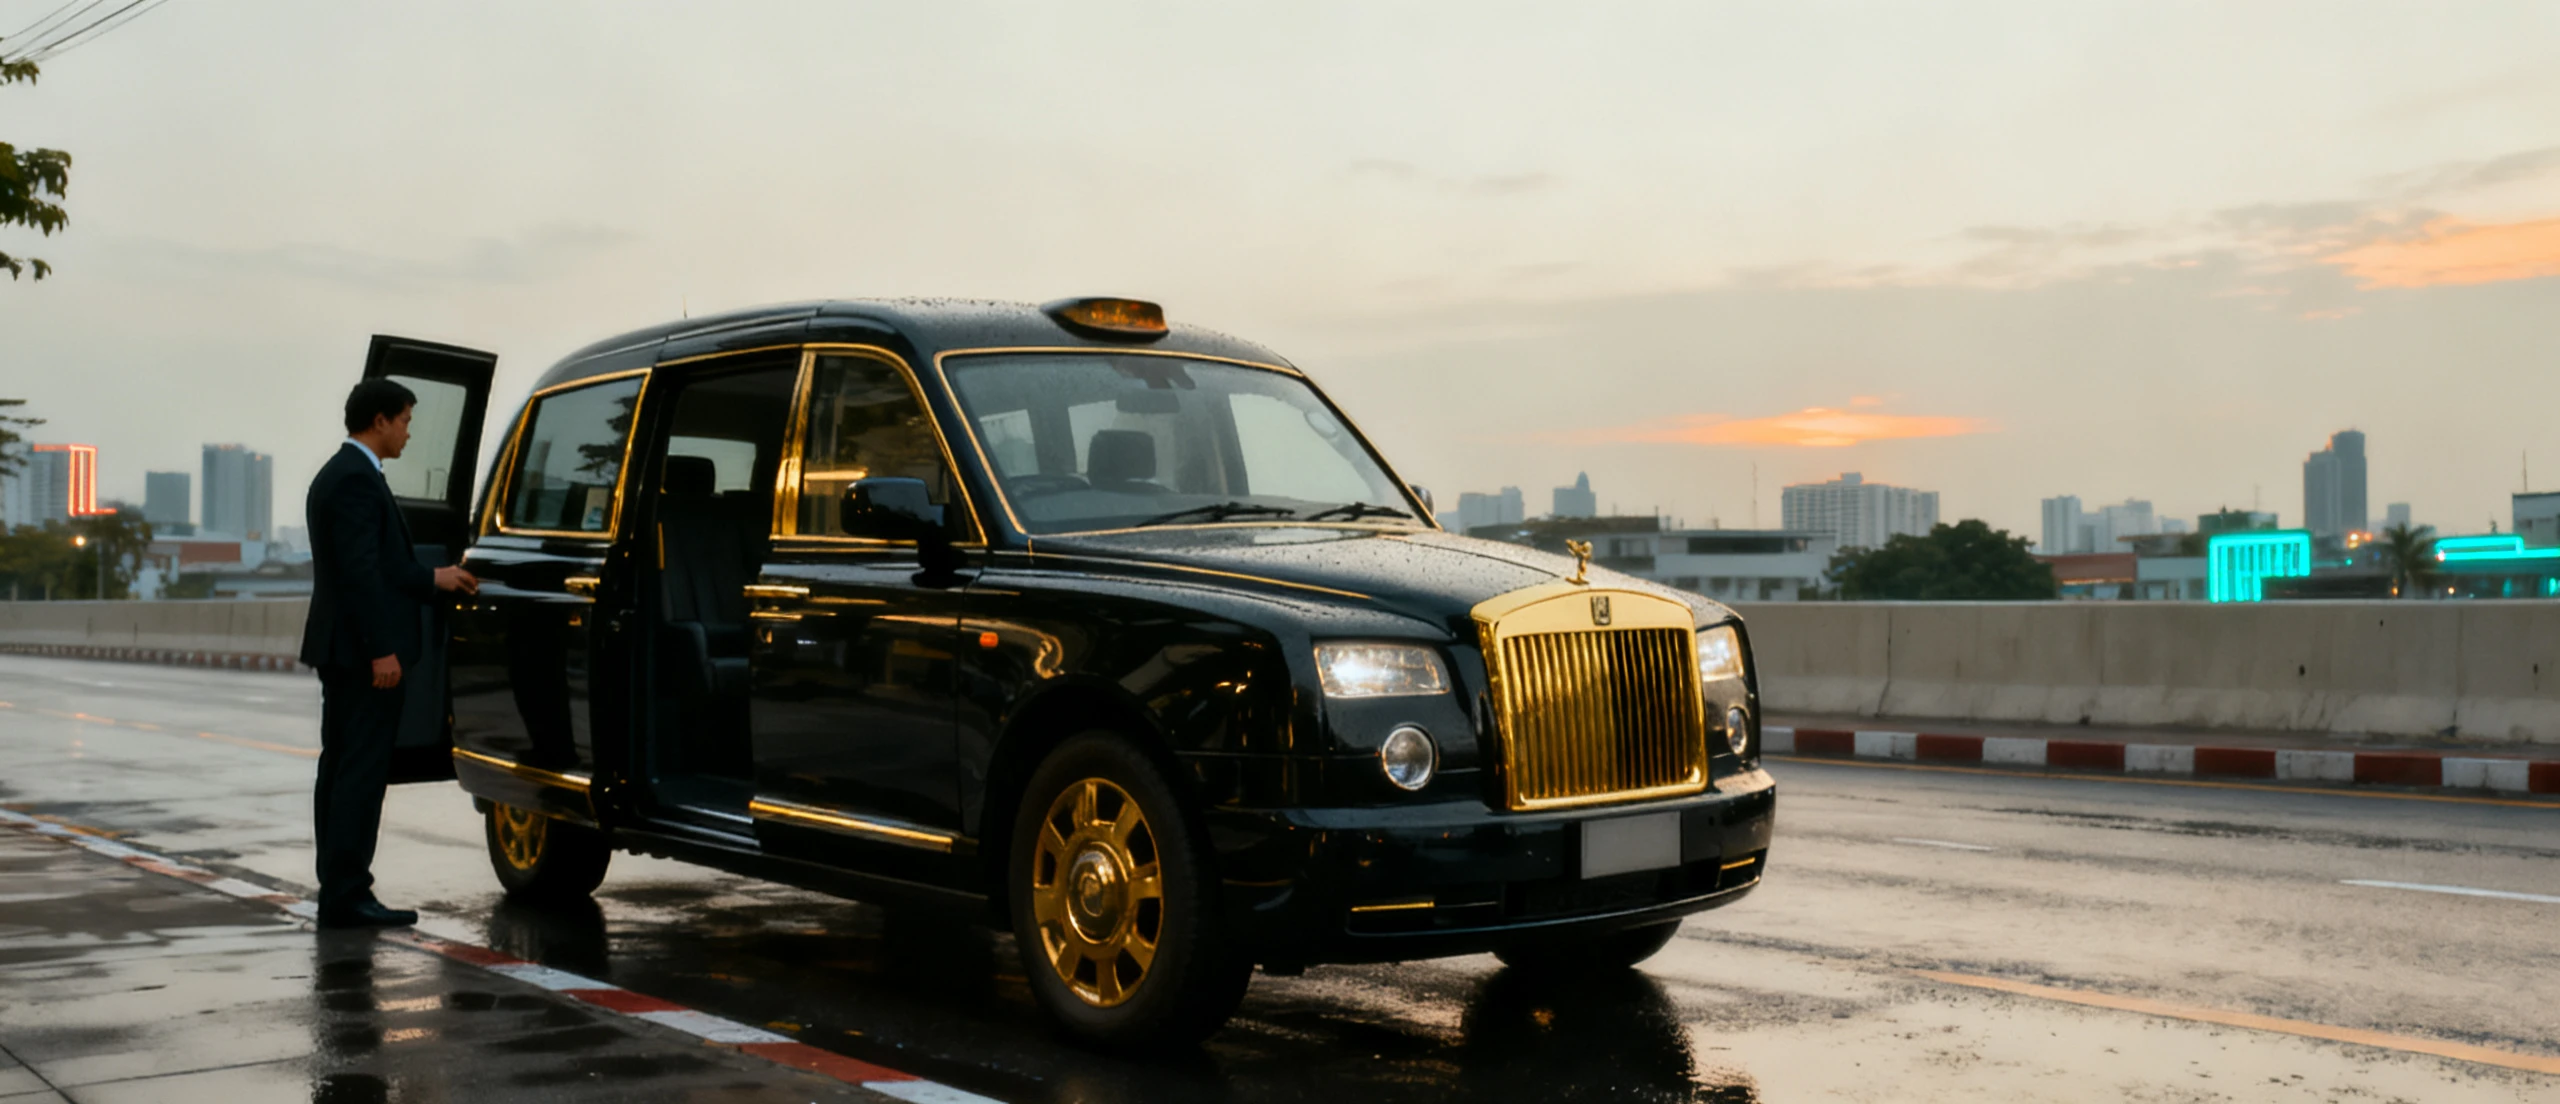
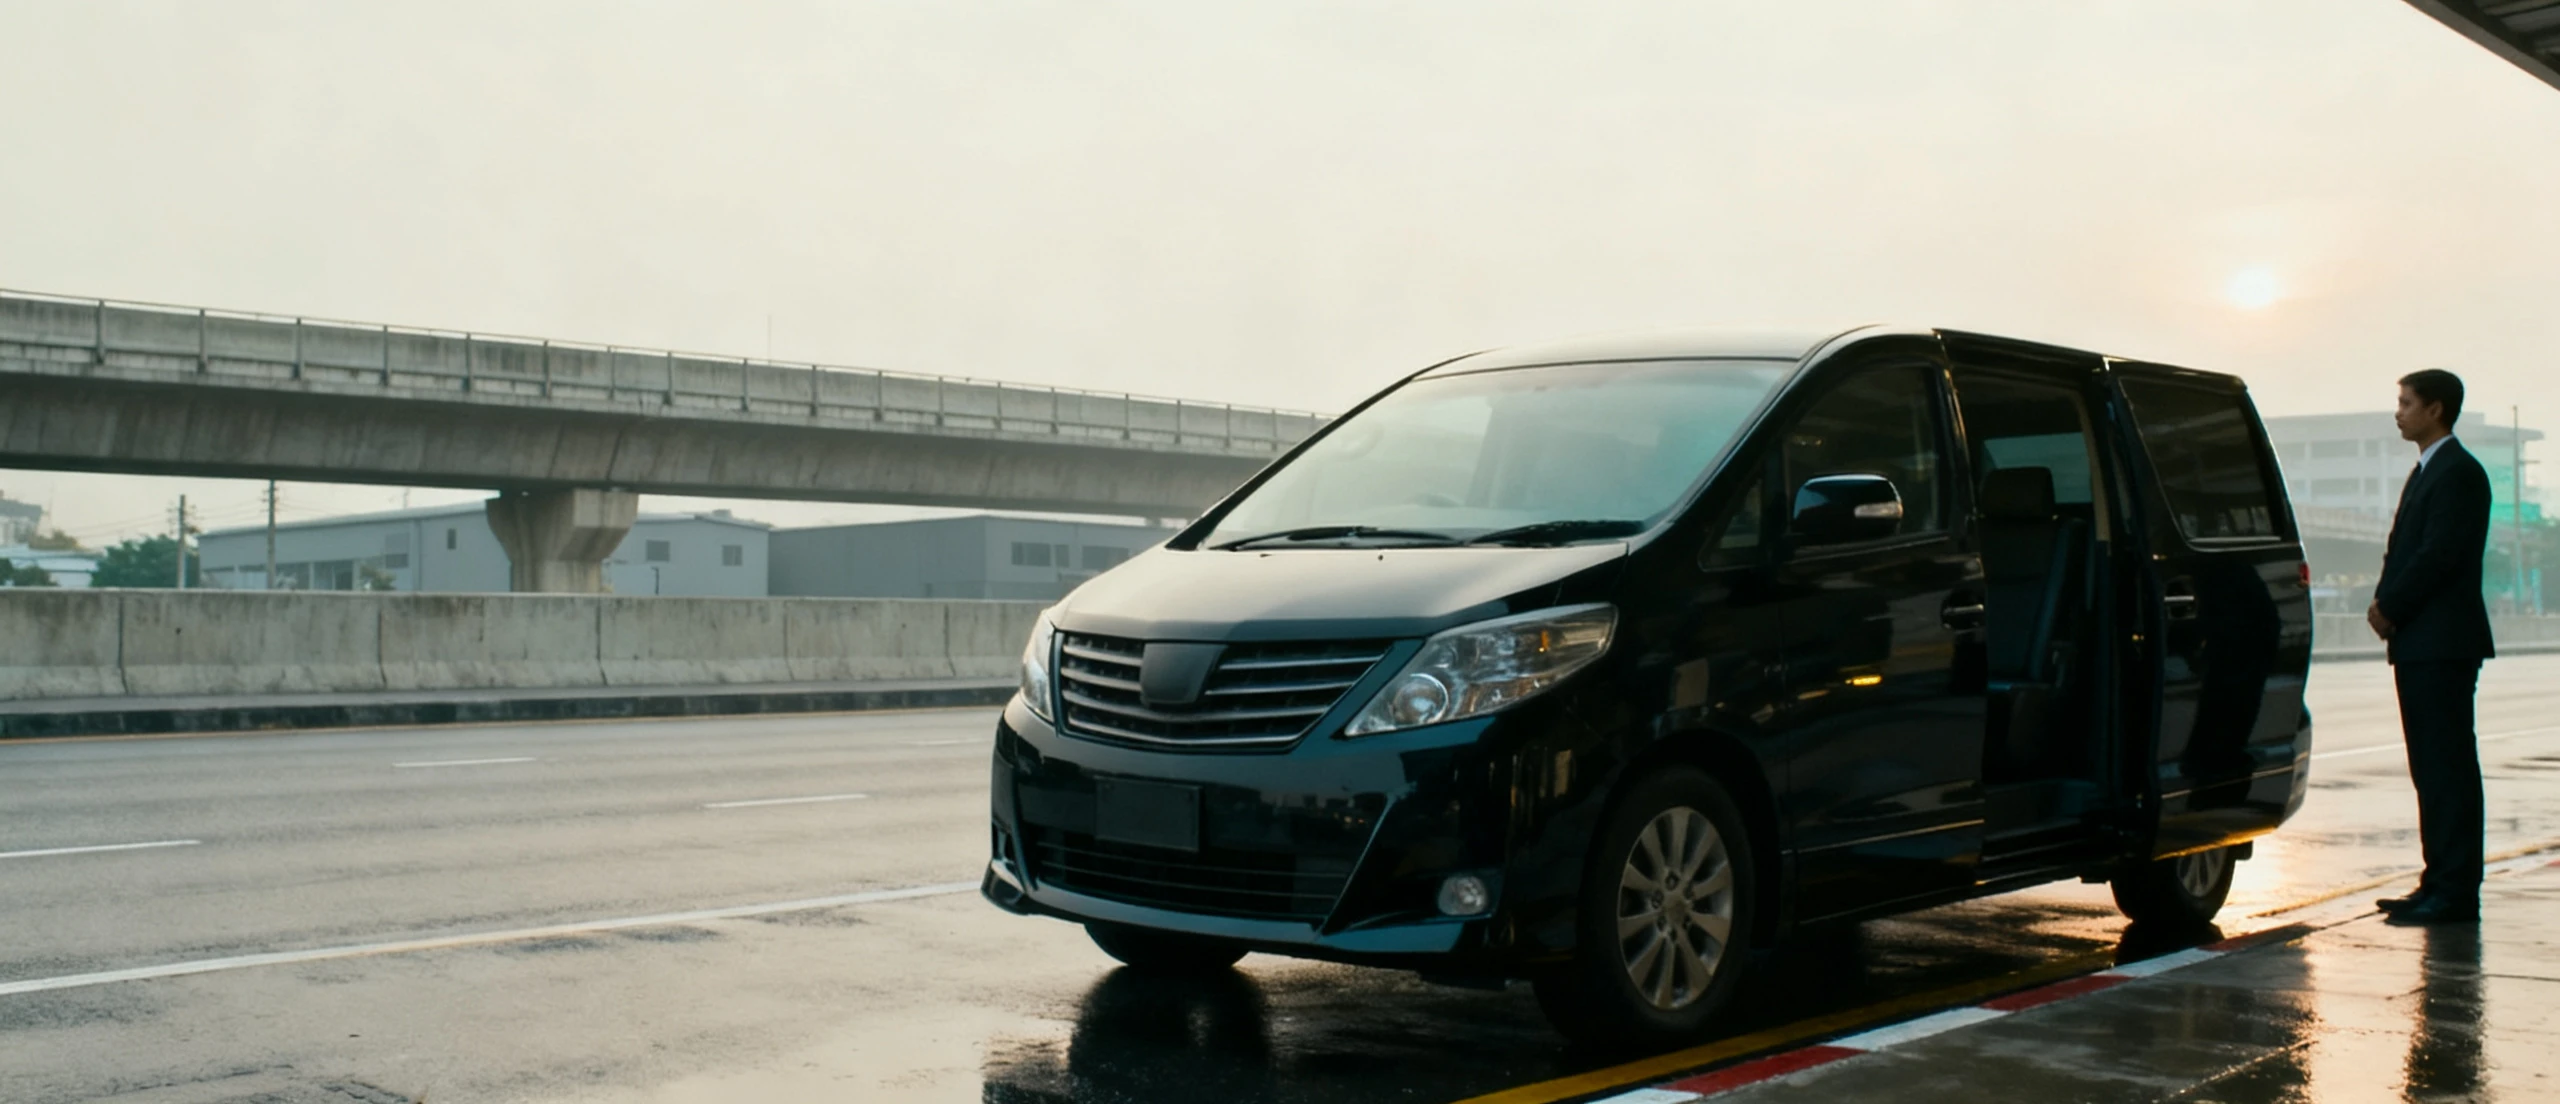
fix(media): remove trade-dress risk from hero prompt, invert depth to near-bright, correct measured cost table
- hero prompt no longer produces a Rolls-Royce style grille/hood ornament/taxi
  roof light; replaced with an explicit plain MPV van description
- PALETTE negative list (shared by every scene) now also forbids gold on the
  vehicle, chrome ornaments, brand logos/badges, taxi signage, neon signs,
  sunset/orange sky, teal, and lens flare
- gen-media.ts now inverts marigold-depth output (sharp negate) before writing
  depth.webp, since the raw model output is far=bright but the WebGL hero
  shader needs near=bright; manifest records depthConvention: 'near-bright'
  on depth entries so this is never inverted a second time
- plan.ts COST_USD updated from list-price guesses to the measured 2026-07-27
  figures (color /bin/zsh.03 confirmed exact on fal's pricing page, depth /bin/zsh.01776
  measured — marigold-depth bills per compute-second with no fixed list price)
- regenerated public/images/parallax/hero/{color,depth}.webp with the fixed
  prompt and inverted depth convention

diff --git a/scripts/gen-media.ts b/scripts/gen-media.ts
@@ -42,6 +42,8 @@ interface ManifestEntry {
   generatedAt: string;
   fileSizeBytes: number;
   aiGenerated: true;
+  /** ใส่เฉพาะ kind: 'depth' — บอกว่าไฟล์นี้ normalize แล้วเป็น near=bright (ตรงข้ามกับ marigold ดิบที่ far=bright) ห้าม invert ซ้ำ */
+  depthConvention?: 'near-bright';
 }
 
 function parseArgs(argv: string[]): Flags {
@@ -117,12 +119,19 @@ function saveManifest(entries: ManifestEntry[]): void {
   writeFileSync(MANIFEST_PATH, `${JSON.stringify(entries, null, 2)}\n`);
 }
 
-async function downloadToWebp(url: string, outFile: string): Promise<number> {
+/**
+ * marigold-depth คืนภาพ depth ดิบแบบ far=bright (ยิ่งไกลยิ่งสว่าง) แต่ shader ของ WebGL hero
+ * ต้องการ near=bright — จึง invert ที่นี่เสมอสำหรับ kind: 'depth' ก่อนเขียนเป็น webp
+ * ไม่ทำที่ปลายทางอื่น เพื่อไม่ให้มีใคร invert ซ้ำสอง
+ */
+async function downloadToWebp(url: string, outFile: string, invert: boolean): Promise<number> {
   const res = await fetch(url);
   if (!res.ok) throw new Error(`ดาวน์โหลดไฟล์ผลลัพธ์ไม่สำเร็จ (HTTP ${res.status})`);
   const buffer = Buffer.from(await res.arrayBuffer());
   mkdirSync(dirname(outFile), { recursive: true });
-  await sharp(buffer).webp({ quality: 90 }).toFile(outFile);
+  let pipeline = sharp(buffer);
+  if (invert) pipeline = pipeline.negate({ alpha: false });
+  await pipeline.webp({ quality: 90 }).toFile(outFile);
   return statSync(outFile).size;
 }
 
@@ -187,7 +196,7 @@ async function main(): Promise<void> {
     if (job.kind === 'color') colorUrlBySceneId.set(scene.id, resultUrl);
 
     const outFile = join(IMAGES_ROOT, job.outPath);
-    const fileSizeBytes = await downloadToWebp(resultUrl, outFile);
+    const fileSizeBytes = await downloadToWebp(resultUrl, outFile, job.kind === 'depth');
 
     manifest.push({
       sceneId: scene.id,
@@ -199,6 +208,7 @@ async function main(): Promise<void> {
       generatedAt: new Date().toISOString(),
       fileSizeBytes,
       aiGenerated: true,
+      ...(job.kind === 'depth' ? { depthConvention: 'near-bright' as const } : {}),
     });
     saveManifest(manifest);
 

diff --git a/scripts/media/scenes.ts b/scripts/media/scenes.ts
@@ -2,13 +2,15 @@ import type { Scene } from './plan';
 
 const PALETTE =
   'muted off-white and warm charcoal palette, soft overcast daylight, ' +
-  'restrained gilded gold accents only, no neon, no teal and orange grade, ' +
+  'gold allowed only as a rare accent in the scene and never on the vehicle, ' +
+  'no gold trim on the car, no chrome ornaments, no brand logos or badges, ' +
+  'no taxi signage, no neon signs, no sunset or orange sky, no teal, no lens flare, ' +
   'no text, no watermark, photographic, medium format look';
 
 export const SCENES: Scene[] = [
   {
     id: 'hero', dir: 'parallax/hero', width: 2560, height: 1097, needsDepth: true,
-    prompt: `Black luxury van waiting on a quiet Bangkok street at early morning, seen three-quarters from the front, driver in a dark suit standing by the rear door, wet asphalt, low city skyline far behind, deep depth of field separation between car and background. ${PALETTE}`,
+    prompt: `A modern black three-row luxury MPV van with a plain unadorned front, no hood ornament, no badges and no logos, parked at the kerb on a wet Bangkok street on an overcast early morning, seen three-quarters from the front right, a chauffeur in a plain dark suit standing beside the closed rear door on the right side of the frame, plain concrete overpass and low grey buildings receding into haze behind, flat even daylight with no visible sun, wide empty road and pale sky filling the left forty percent of the frame. ${PALETTE}`,
   },
   {
     id: 'service/airport', dir: 'parallax/service/airport', width: 1920, height: 1080, needsDepth: true,

diff --git a/scripts/media/plan.ts b/scripts/media/plan.ts
@@ -13,8 +13,14 @@ export interface Job {
   outPath: string;
 }
 
-/** ราคาต่อชิ้นจาก fal (2026-07-27): Seedream V4 $0.03/รูป, marigold-depth ~$0.01/รูป */
-const COST_USD: Record<Job['kind'], number> = { color: 0.03, depth: 0.01 };
+/**
+ * ราคาต่อชิ้น วัดจริงเมื่อ 2026-07-27 (ไม่ใช่ตัวเลขจากหน้าราคา):
+ * color = $0.03 ตรงกับหน้าราคา fal ของ Seedream V4 (คงที่ต่อภาพ)
+ * depth = $0.01776 — marigold-depth คิดเงินตามวินาที compute จริง ไม่มีราคาคงที่ต่อภาพในหน้าราคา
+ * ยอดนี้มาจากส่วนต่างยอดคงเหลือจริงของงาน hero 1 คู่ (color+depth) ลบด้วยราคาคงที่ของ color
+ * ตัวเลขนี้อาจขยับได้ในอนาคตถ้าเวลา compute ของ depth เปลี่ยน แต่ใกล้เคียงพอสำหรับ dry-run estimate
+ */
+const COST_USD: Record<Job['kind'], number> = { color: 0.03, depth: 0.01776 };
 
 export function planJobs(
   scenes: Scene[],

diff --git a/tests/media/plan.test.ts b/tests/media/plan.test.ts
@@ -34,8 +34,8 @@ describe('planJobs', () => {
     expect(jobs.map((j) => j.kind)).toEqual(['color']);
   });
 
-  it('คิดเงินตามชนิดงาน color 0.03 depth 0.01', () => {
+  it('คิดเงินตามชนิดงาน (วัดจริง 2026-07-27) color 0.03 depth 0.01776', () => {
     const { estimatedUsd } = planJobs([scene('hero'), scene('trust', false)], new Set(), false);
-    expect(estimatedUsd).toBeCloseTo(0.07, 5);
+    expect(estimatedUsd).toBeCloseTo(0.07776, 5);
   });
 });
